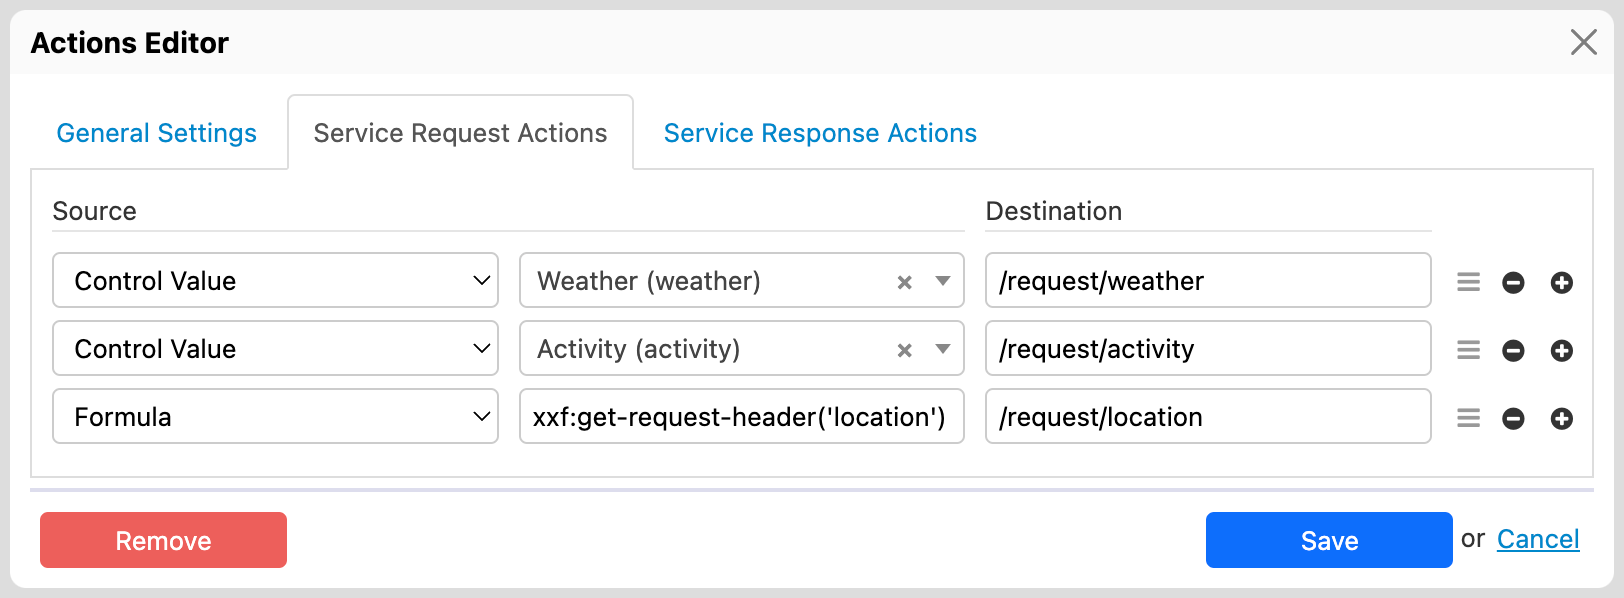
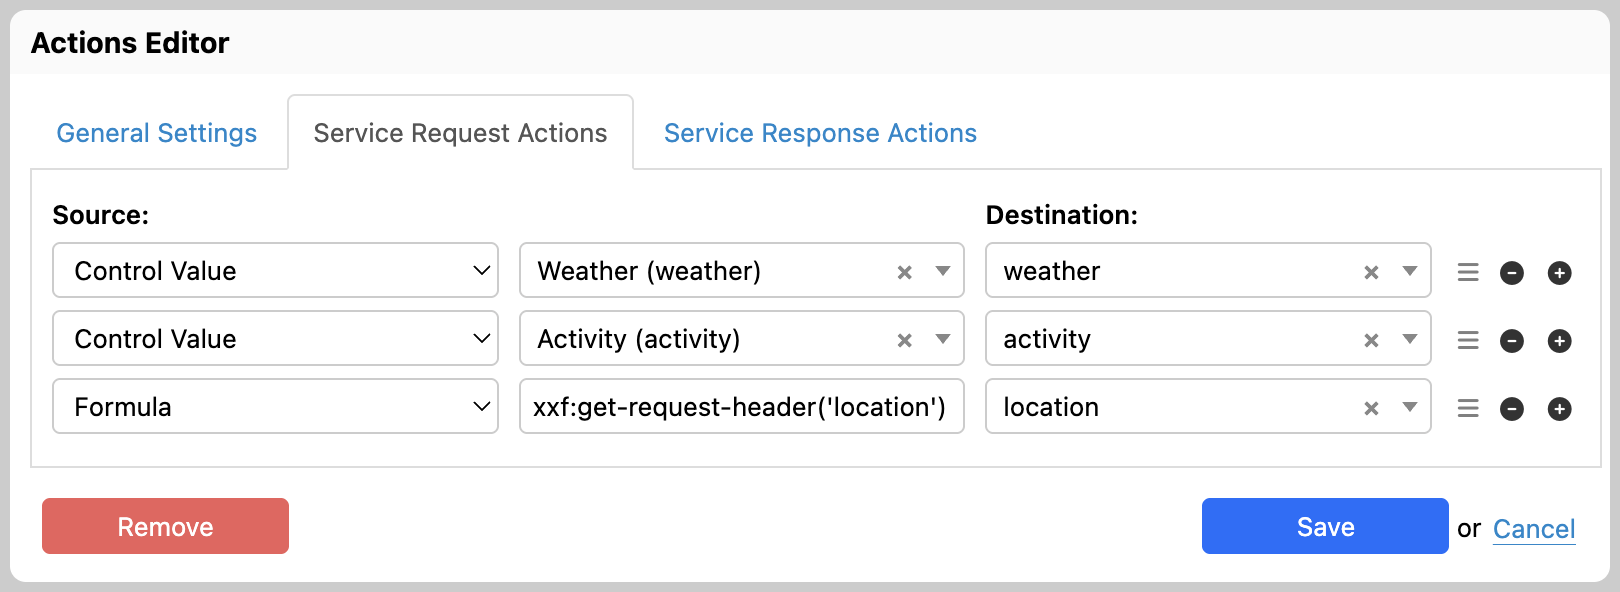
Actions Editor / HTTP Service Editor screenshots

diff --git a/form-builder/actions.md b/form-builder/actions.md
@@ -146,6 +146,8 @@ Parameters:
 * **Destination**:
   * The dropdown lists both URL parameters and HTTP headers defined in the HTTP Service Editor, organized into separate groups for easy identification.
 
+![Action request HTTP headers](../.gitbook/assets/actions-request-http-headers.png)
+
 ## Handling the service response
 
 ### User interface
